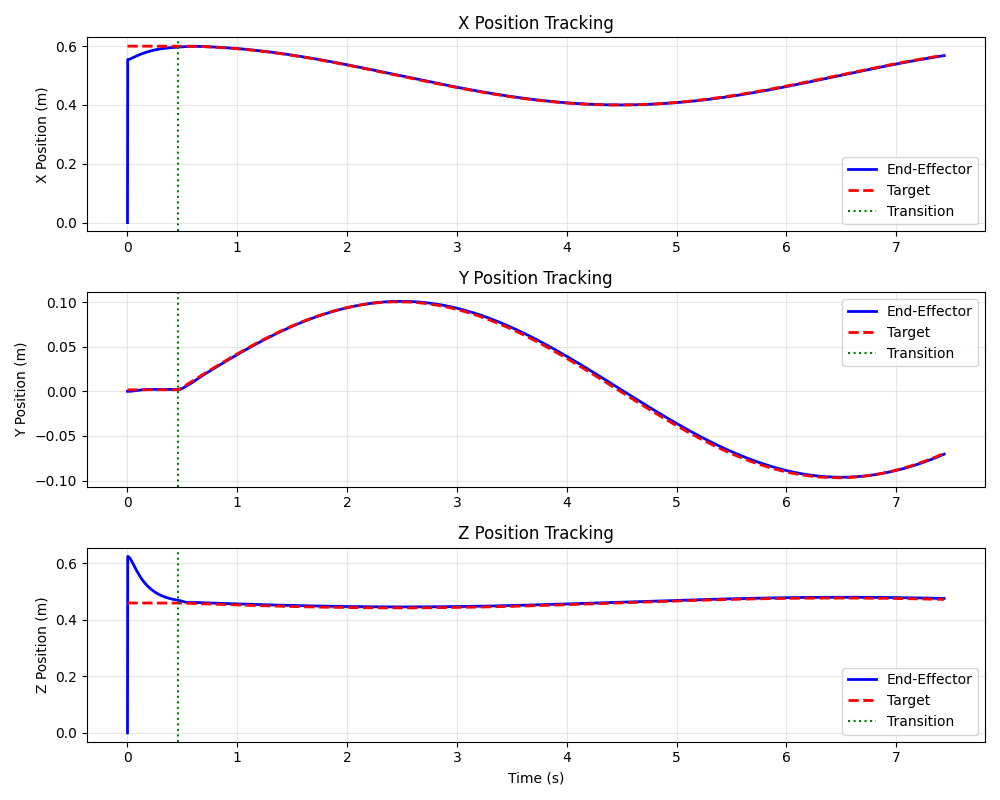
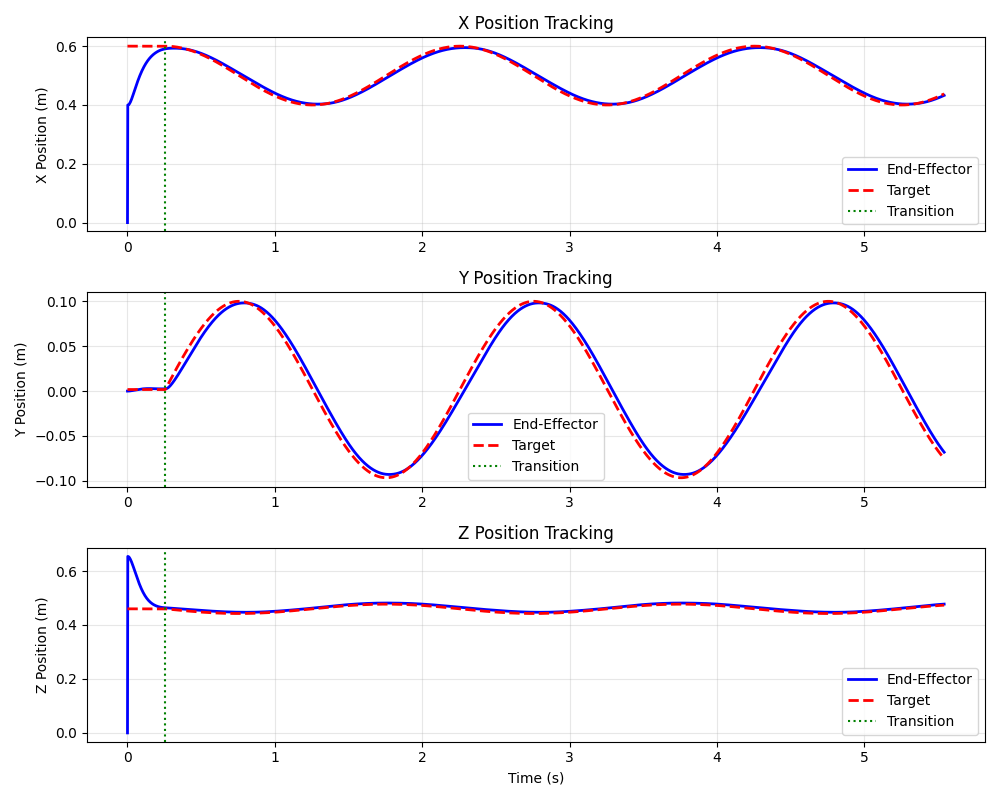
update pino_data and add libfranka code

diff --git a/hybrid_slope_ctrl_class.py b/hybrid_slope_ctrl_class.py
@@ -1,6 +1,7 @@
 # ------------------------------------------------------------------------------
 # Hybrid Force-Impedance Control for Fast End-Effector Motions
 # Separated into Approach Controller and Circle Drawing Controller
+# Mujuco and Franka and class structure
 # ------------------------------------------------------------------------------
 
 import mujoco
@@ -65,14 +66,14 @@ class ControlPhase(Enum):
 class ControllerConfig:
     """Configuration parameters shared across all controllers."""
     # Simulation parameters
-    dt: float = 0.001
+    dt: float = 0.002
     gravity_compensation: bool = True
 
     # Circle drawing parameters
     circle_center: np.ndarray = None
     circle_radius: float = 0.1
     circle_duration: float = 10.0
-    angular_speed: float = np.pi/4
+    angular_speed: float = np.pi
 
     # Contact detection thresholds
     position_tolerance: float = 0.01  # 1cm tolerance for reaching target
@@ -100,7 +101,7 @@ class CartesianSpacePDControlConfig:
 
     where twist is computed from pose error with gain Kpos.
     """
-    Kpos: float = 0.5  # Position error gain
+    Kpos: float = 0.95  # Position error gain
     Kp: np.ndarray = None  # Task space proportional gain
     Kd: np.ndarray = None  # Task space derivative gain
     Kp_null: np.ndarray = None
@@ -141,9 +142,9 @@ class HybridControllerConfig:
     k_normal: float = 5000.0
 
     # Force control gains
-    Kp_force: float = 0.4
+    Kp_force: float = 0.4  # Reduced for safety
     Kd_force: float = 0.002
-    Ki_force: float = 0.4
+    Ki_force: float = 0.4  # Reduced for safety
     F_desired_contact: np.ndarray = None
 
     def __post_init__(self):
@@ -190,11 +191,8 @@ class CartesianSpacePDController:
         self.target_quat: Optional[np.ndarray] = None
         self.q0: Optional[np.ndarray] = None  # Home configuration
 
-        # Preallocated workspace
-        self.jac: Optional[np.ndarray] = None
-        self.M_inv: Optional[np.ndarray] = None
-        self.Mx: Optional[np.ndarray] = None
-        self.tau: Optional[np.ndarray] = None
+        # Control output
+        self.tau: np.ndarray = np.zeros(7)
 
         # Data logging
         self.ee_positions: list = []
@@ -296,6 +294,9 @@ class CartesianSpacePDController:
         # ============================================================
         mujoco.mj_solveM(self.model, self.data, self.M_inv, np.eye(self.model.nv))
         self.Mx = task_space_inertiaM(self.M_inv, self.jac)
+        # M = np.zeros((self.model.nv, self.model.nv))
+        # mujoco.mj_fullM(self.model, M, self.data.qM)
+        # self.Mx = task_space_inertiaM_fromM(M, self.jac)
 
         # ============================================================
         # 4. Compute Task-Space Control
@@ -644,8 +645,12 @@ class HybridController:
         #------------------------------------------------------
         # Constraint space
         #------------------------------------------------------
+        pino.forwardKinematics(self.pino_model, self.pino_data, self.data.qpos, self.data.qvel)
+        pino.computeJointJacobians(self.pino_model, self.pino_data)
+        pino.updateFramePlacements(self.pino_model, self.pino_data)
+
         C = pino.computeCoriolisMatrix(self.pino_model, self.pino_data, self.data.qpos, self.data.qvel)
-        pino_frame_id = 0 # pino_model.getFrameId("attachment")
+        pino_frame_id = self.pino_model.getFrameId("attachment")
         J_dot = pino.getFrameJacobianTimeVariation(self.pino_model, self.pino_data, pino_frame_id, pino.LOCAL_WORLD_ALIGNED)
         J_phi_dot = self.S_f.T @ J_dot
 
@@ -653,7 +658,7 @@ class HybridController:
         F_ext_x_new[-3:] = 0
         control_force_compensation = 1 * (- Mx_constraint @ J_phi @ M_inv @ (tau_ctrl_x + tau_ctrl_v))
         contact_force_compensation = 1 * (Mx_constraint @ J_phi @ M_inv @ (J_motion.T @ F_ext_x_new))
-        verlociy_term = -1 * Mx_constraint @ (J_phi @ M_inv @ C - J_phi_dot) @ self.data.qvel.copy()
+        verlociy_term = 1 * Mx_constraint @ (J_phi @ M_inv @ C - J_phi_dot) @ self.data.qvel.copy()
         F_ctrl_constraint = (
             self.config.F_desired_contact +
             control_force_compensation +

diff --git a/hybrid_slope_ctrl_franka.py b/hybrid_slope_ctrl_franka.py
@@ -12,48 +12,12 @@ import numpy as np
 from typing import Optional, Tuple
 from dataclasses import dataclass
 from enum import Enum
-
+import pinocchio as pino
 from pylibfranka import Robot, Torques, RealtimeConfig
-
+from utils_libfranka import euler_to_rot_matrix, compute_ee_pose_error_pinocchio
 # ------------------------------------------------------------------------------
 # Utility Functions
 # ------------------------------------------------------------------------------
-
-def euler_to_rot_matrix(euler: np.ndarray) -> np.ndarray:
-    """
-    Convert Euler angles (XYZ convention) to rotation matrix.
-
-    Args:
-        euler: Euler angles [rx, ry, rz] in radians
-
-    Returns:
-        3x3 rotation matrix
-    """
-    rx, ry, rz = euler
-
-    # Rotation around X
-    Rx = np.array([
-        [1, 0, 0],
-        [0, np.cos(rx), -np.sin(rx)],
-        [0, np.sin(rx), np.cos(rx)]
-    ])
-
-    # Rotation around Y
-    Ry = np.array([
-        [np.cos(ry), 0, np.sin(ry)],
-        [0, 1, 0],
-        [-np.sin(ry), 0, np.cos(ry)]
-    ])
-
-    # Rotation around Z
-    Rz = np.array([
-        [np.cos(rz), -np.sin(rz), 0],
-        [np.sin(rz), np.cos(rz), 0],
-        [0, 0, 1]
-    ])
-
-    # Combined rotation (XYZ order)
-    return Rz @ Ry @ Rx
 
 
 def homogeneous_to_pos_quat(T: np.ndarray) -> Tuple[np.ndarray, np.ndarray]:
@@ -138,51 +102,6 @@ def quaternion_to_rotation_matrix(quat: np.ndarray) -> np.ndarray:
     ])
 
     return R
-
-
-def compute_ee_pose_error(
-    target_pos: np.ndarray,
-    current_pos: np.ndarray,
-    target_quat: np.ndarray,
-    current_mat: np.ndarray,
-    Kpos: float = 1.0
-) -> np.ndarray:
-    """
-    Compute end-effector pose error as a 6D twist.
-
-    Args:
-        target_pos: Desired position [x, y, z]
-        current_pos: Current position [x, y, z]
-        target_quat: Desired orientation quaternion [w, x, y, z]
-        current_mat: Current rotation matrix (3x3 or 9-element array)
-        Kpos: Position gain
-
-    Returns:
-        6D twist [dx, dy, dz, drx, dry, drz]
-    """
-    # Position error
-    pos_error = Kpos * (target_pos - current_pos)
-
-    # Orientation error
-    if current_mat.size == 9:
-        current_mat = current_mat.reshape(3, 3)
-    elif current_mat.size == 16:
-        current_mat = current_mat.reshape(4, 4).T[:3, :3]
-
-    target_mat = quaternion_to_rotation_matrix(target_quat)
-
-    # Compute orientation error in axis-angle representation
-    error_mat = target_mat @ current_mat.T
-
-    # Convert to axis-angle (simplified)
-    ori_error = np.array([
-        error_mat[2, 1] - error_mat[1, 2],
-        error_mat[0, 2] - error_mat[2, 0],
-        error_mat[1, 0] - error_mat[0, 1]
-    ]) * 0.5
-
-    return np.concatenate([pos_error, ori_error])
-
 
 def task_space_inertiaM(M_inv: np.ndarray, jac: np.ndarray) -> np.ndarray:
     """
@@ -433,7 +352,7 @@ class HybridControllerConfig:
             self.Kp_null = np.asarray([75.0, 75.0, 50.0, 50.0, 40.0, 25.0, 25.0])
             self.Kd_null = self.damping_ratio * 2 * np.sqrt(self.Kp_null)
         if self.F_desired_contact is None:
-            self.F_desired_contact = np.array([-5.0])  # Reduced for safety
+            self.F_desired_contact = np.array([-10.0])
 
 
 # ------------------------------------------------------------------------------
@@ -486,7 +405,7 @@ class CartesianSpacePDController:
         current_mat = O_T_EE[:3, :3]
 
         # Compute pose error
-        twist = compute_ee_pose_error(
+        twist = compute_ee_pose_error_pinocchio(
             self.target_pos,
             current_pos,
             self.target_quat,

diff --git a/hybrid_slope_ctrl_class_kuka.py b/hybrid_slope_ctrl_class_kuka.py
@@ -1,6 +1,7 @@
 # ------------------------------------------------------------------------------
 # Hybrid Force-Impedance Control for Fast End-Effector Motions
 # Separated into Approach Controller and Circle Drawing Controller
+# Mujuco and Kuka and class structure
 # ------------------------------------------------------------------------------
 
 import mujoco
@@ -100,7 +101,7 @@ class CartesianSpacePDControlConfig:
 
     where twist is computed from pose error with gain Kpos.
     """
-    Kpos: float = 0.5  # Position error gain
+    Kpos: float = 0.95  # Position error gain
     Kp: np.ndarray = None  # Task space proportional gain
     Kd: np.ndarray = None  # Task space derivative gain
     Kp_null: np.ndarray = None
@@ -644,16 +645,20 @@ class HybridController:
         #------------------------------------------------------
         # Constraint space
         #------------------------------------------------------
+        pino.forwardKinematics(self.pino_model, self.pino_data, self.data.qpos, self.data.qvel)
+        pino.computeJointJacobians(self.pino_model, self.pino_data)
+        pino.updateFramePlacements(self.pino_model, self.pino_data)
+
         C = pino.computeCoriolisMatrix(self.pino_model, self.pino_data, self.data.qpos, self.data.qvel)
-        pino_frame_id = 0 # pino_model.getFrameId("attachment")
+        pino_frame_id = self.pino_model.getFrameId("attachment")
         J_dot = pino.getFrameJacobianTimeVariation(self.pino_model, self.pino_data, pino_frame_id, pino.LOCAL_WORLD_ALIGNED)
         J_phi_dot = self.S_f.T @ J_dot
 
         F_ext_x_new = F_ext_x.copy()
         F_ext_x_new[-3:] = 0
         control_force_compensation = 1 * (- Mx_constraint @ J_phi @ M_inv @ (tau_ctrl_x + tau_ctrl_v))
-        contact_force_compensation = 0 * (Mx_constraint @ J_phi @ M_inv @ (J_motion.T @ F_ext_x_new))
-        verlociy_term = -1 * Mx_constraint @ (J_phi @ M_inv @ C - J_phi_dot) @ self.data.qvel.copy()
+        contact_force_compensation = 1 * (Mx_constraint @ J_phi @ M_inv @ (J_motion.T @ F_ext_x_new))
+        verlociy_term = 1 * Mx_constraint @ (J_phi @ M_inv @ C - J_phi_dot) @ self.data.qvel.copy()
         F_ctrl_constraint = (
             self.config.F_desired_contact +
             control_force_compensation +

diff --git a/hybrid_impedance_slope.py b/hybrid_impedance_slope.py
@@ -201,12 +201,12 @@ def main() -> None:
     phi_vel_history = []
     ee_phis = []
 
-    with mujoco.viewer.launch_passive(
+    with (mujoco.viewer.launch_passive(
         model=model,
         data=data,
         # show_left_ui=False,
         # show_right_ui=False,
-    ) as viewer:
+    ) as viewer):
         scene = viewer.user_scn
         ngeom_init = scene.ngeom
         # Reset the simulation.
@@ -386,7 +386,9 @@ def main() -> None:
                 # computeJointJacobiansTimeVariation
                 # pino.computeJointJacobiansTimeVariation(pino_model, pino_data, data.qpos, data.qvel)
                 # ----------------- bruno's method -----------------------
-                pino_frame_id = 0 # pino_model.getFrameId("attachment")
+                pino.computeJointJacobiansTimeVariation(pino_model, pino_data, data.qpos, data.qvel)
+                pino.updateFramePlacements(pino_model, pino_data)
+                pino_frame_id = pino_model.getFrameId("attachment")
                 J_dot = pino.getFrameJacobianTimeVariation(pino_model, pino_data, pino_frame_id, pino.LOCAL_WORLD_ALIGNED)
                 J_phi_dot = S_f.T @ J_dot
                 # -Mx_constraint @ J_phi @ M_inv @ (tau_ctrl_x + tau_ctrl_v) # with and without tau_ctrl_v no big diff
@@ -395,8 +397,10 @@ def main() -> None:
                 F_ext_x_new[-3:] = 0
                 control_force_compensation = 1 * (- Mx_constraint @ J_phi @ M_inv @ (tau_ctrl_x + tau_ctrl_v))
                 contact_force_compensation = 1 * (Mx_constraint @ J_phi @ M_inv @ (J_motion.T @ F_ext_x_new))
-                verlociy_term = -1 * Mx_constraint @ (J_phi @ M_inv @ C - J_phi_dot) @ data.qvel.copy()
-                # verlociy_term = -1 * Mx_constraint @ (J_phi @ M_inv @ C) @ data.qvel.copy()
+                verlociy_term = 1 * Mx_constraint @ (J_phi @ M_inv @ C - J_phi_dot) @ data.qvel.copy()
+                #verlociy_term = - Mx_constraint @ J_phi_dot @ data.qvel.copy()
+                #- Mx_constraint @ J_phi_dot @ data.qvel.copy()
+                #1 * Mx_constraint @ (J_phi @ M_inv @ C) @ data.qvel.copy()
                 F_ctrl_constraint = (
                     F_desired_contact +
                     control_force_compensation +

diff --git a/utils_libfranka.py b/utils_libfranka.py
@@ -1,0 +1,43 @@
+import pinocchio as pin
+import numpy as np
+
+def compute_ee_pose_error_pinocchio(target_pos, current_pos, target_quat, current_mat, Kpos=0.95):
+    # Convert current rotation matrix to SE3
+    current_SE3 = pin.SE3(current_mat, current_pos)
+
+    # Convert target (quat + pos) into SE3
+    target_rot = pin.Quaternion(target_quat).toRotationMatrix()
+    target_SE3 = pin.SE3(target_rot, target_pos)
+
+    # Compute pose error in tangent (Lie algebra) space
+    error_SE3 = current_SE3.inverse() * target_SE3
+    twist = pin.log(error_SE3)  # 6D (vx, vy, vz, wx, wy, wz)
+
+    # Apply gains to translational and rotational components
+    twist[:3] *= Kpos
+    Kori = 0.95
+    twist[3:] *= Kori
+
+    return twist
+
+
+def euler_to_rot_matrix(euler):
+    """
+    Convert Euler angles (roll, pitch, yaw) to a rotation matrix.
+    The input euler angles are in radians.
+    The output rotation matrix is a 3x3 numpy array.
+    """
+    roll, pitch, yaw = euler
+    R_x = np.array([[1, 0, 0],
+                    [0, np.cos(roll), -np.sin(roll)],
+                    [0, np.sin(roll), np.cos(roll)]])
+
+    R_y = np.array([[np.cos(pitch), 0, np.sin(pitch)],
+                    [0, 1, 0],
+                    [-np.sin(pitch), 0, np.cos(pitch)]])
+
+    R_z = np.array([[np.cos(yaw), -np.sin(yaw), 0],
+                    [np.sin(yaw), np.cos(yaw), 0],
+                    [0, 0, 1]])
+
+    return R_z @ R_y @ R_x

diff --git a/utils.py b/utils.py
@@ -155,6 +155,29 @@ def task_space_inertiaM(M_inv, jac):
         Mx = np.linalg.pinv(Mx_inv, rcond=1e-2)
     return Mx
 
+def task_space_inertiaM_fromM(M, jac, regularization = 1e-6):
+    """
+    Compute the task-space inertia matrix from the joint-space inertia matrix.
+    Mx_inv = J * (M^-1 * J^T)
+    X = M^-1 * J^T
+    """
+    M_reg = M + regularization * np.eye(M.shape[0])
+
+    try:
+        # Solve M * X = J^T for X
+        X = np.linalg.solve(M_reg, jac.T)
+    except np.linalg.LinAlgError:
+        # Fallback to pseudoinverse if still singular
+        print("Warning: Using pseudoinverse for M")
+        X = np.linalg.pinv(M_reg, rcond=1e-4) @ jac.T
+
+    Mx_inv = jac @ X
+    if abs(np.linalg.det(Mx_inv)) >= 1e-2:
+        Mx = np.linalg.inv(Mx_inv)
+    else:
+        Mx = np.linalg.pinv(Mx_inv, rcond=1e-2)
+    return Mx
+
 def null_space_tau(data, q0, dof_ids, Kp_null, Kd_null):
     """
     Compute the null-space torque to drive joints to a desired configuration q0 with PD control.
